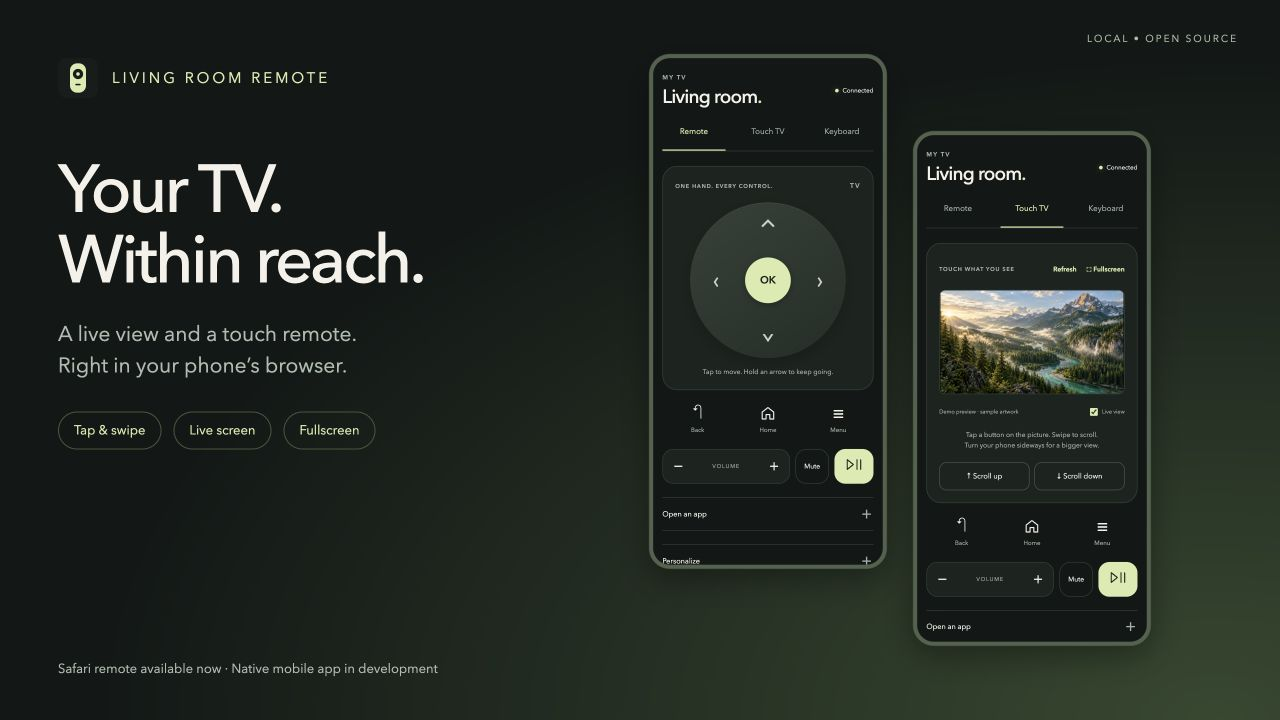
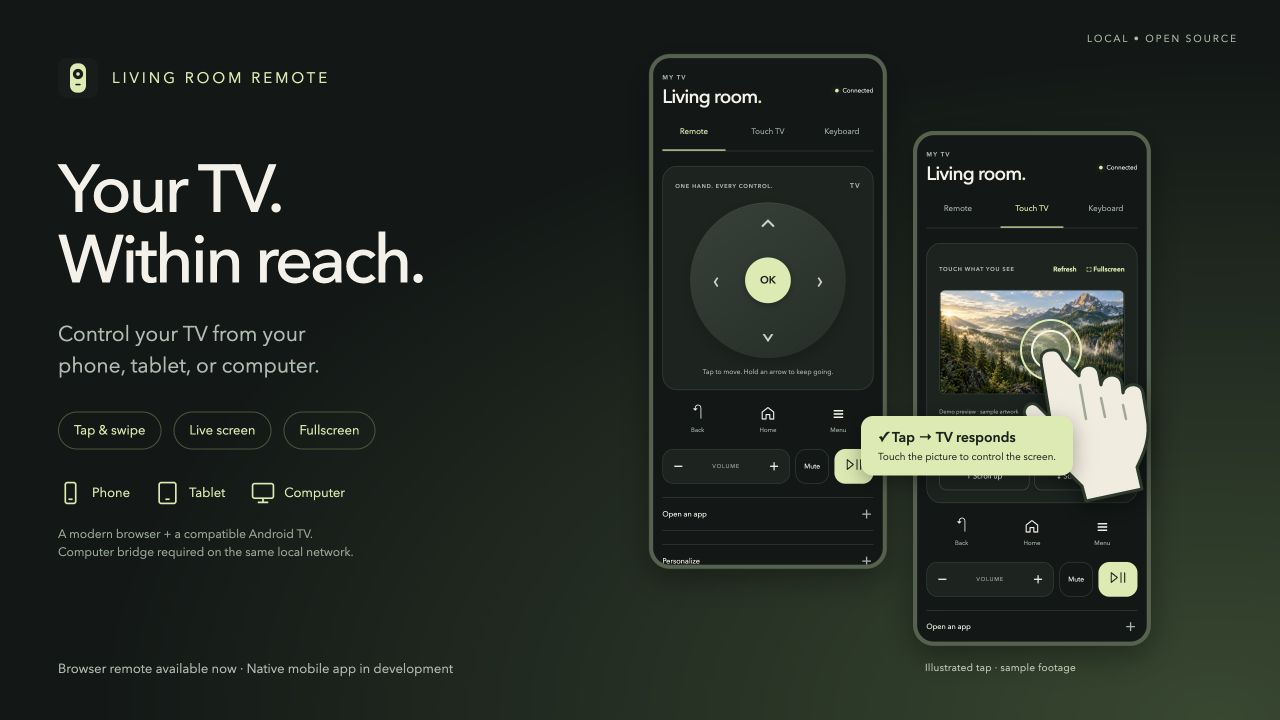
Show browser device support and illustrate touch interaction

diff --git a/README.md b/README.md
@@ -4,9 +4,15 @@
 
 **Browser remote available now · Native mobile app in development · MIT licensed**
 
-Control an Android TV from your phone browser: live screen, tap and swipe, directional pad, keyboard, volume and fullscreen. A computer on the same network bridges the phone to the TV over ADB. No cloud account or Node runtime dependencies.
+Control a compatible Android TV from a browser on your **phone, tablet, or computer**: live screen, tap and swipe, directional pad, keyboard, volume and fullscreen. A computer on the same network bridges your browser to the TV over ADB. No cloud account or Node runtime dependencies.
 
 This is an early personal-use project, tested with an Android 9 TCL TV and iPhone Safari. It is not a universal TV remote: your TV must allow ADB debugging and scrcpy screen capture/input.
+
+## Device support
+
+The controller is a responsive web app, designed for modern browsers on phones, tablets, and computers. Use touch on a phone or tablet, or click the controls with a mouse on desktop. There is no controller app to install.
+
+The verified setup is **iPhone Safari + a Mac bridge + an Android 9 TCL TV**. Other browser/device combinations are not all tested. The target TV needs authorized ADB access and compatible scrcpy capture/input; this does not mean every smart TV is supported.
 
 ## On your phone
 
@@ -23,18 +29,18 @@ Turn your phone sideways and tap **Fullscreen** to expand the picture. Tap and s
 
 ![Landscape fullscreen view with sample footage and a close button](docs/images/mobile-fullscreen.jpg)
 
-*Screenshots show the actual web interface with generic names and AI-generated scenic demo imagery. The landscape is a sample still, not a recording of a user's TV. No private TV footage is included.*
+*Screenshots show the actual web interface with generic names and AI-generated scenic demo imagery. The landscape is a sample still, not a recording of a user's TV. No private TV footage is included. The hand, tap ripple and response callout on the cover illustrate the interaction; they are not a recorded latency measurement.*
 
 ## How it works
 
 ```mermaid
 flowchart LR
-    Phone[Phone · Safari] <-->|Paired local connection| Computer[Computer · Node bridge]
+    Phone[Phone / tablet / computer · Browser] <-->|Paired local connection| Computer[Computer · Node bridge]
     Computer <-->|ADB + scrcpy| TV[Android TV]
 ```
 
 1. Start the bridge on your computer and authorize its ADB connection to the TV.
-2. Open its private pairing link on your phone, on the same Wi-Fi.
+2. Open its private pairing link in your chosen browser, on the same Wi-Fi.
 3. Use the remote buttons, tap the live TV image, or send text from the keyboard.
 4. Add the page to your Home Screen for quick access. Keep the computer awake while using it.
 
